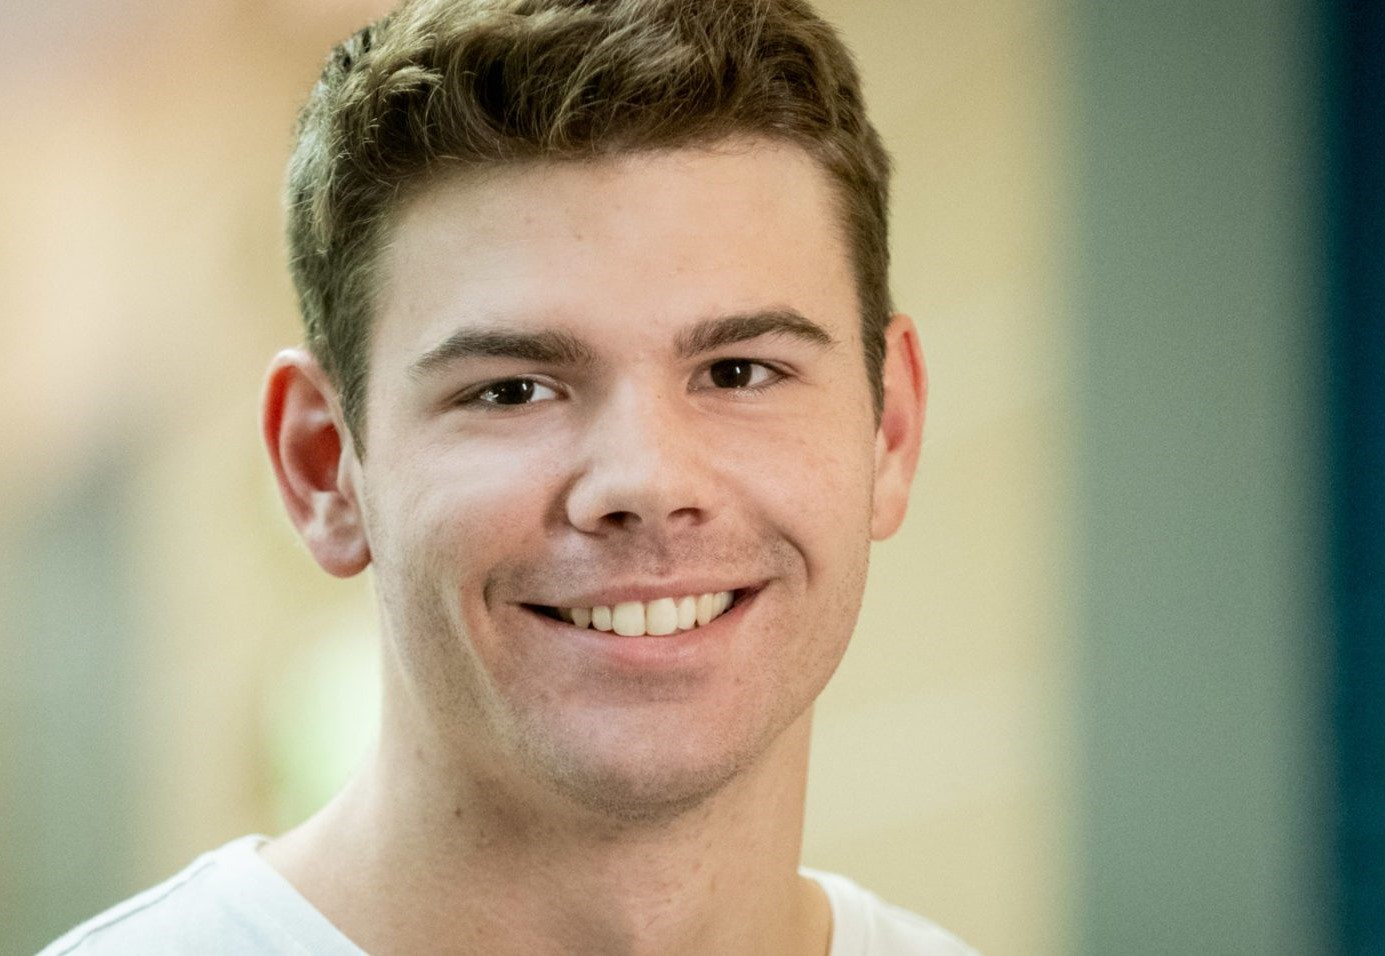
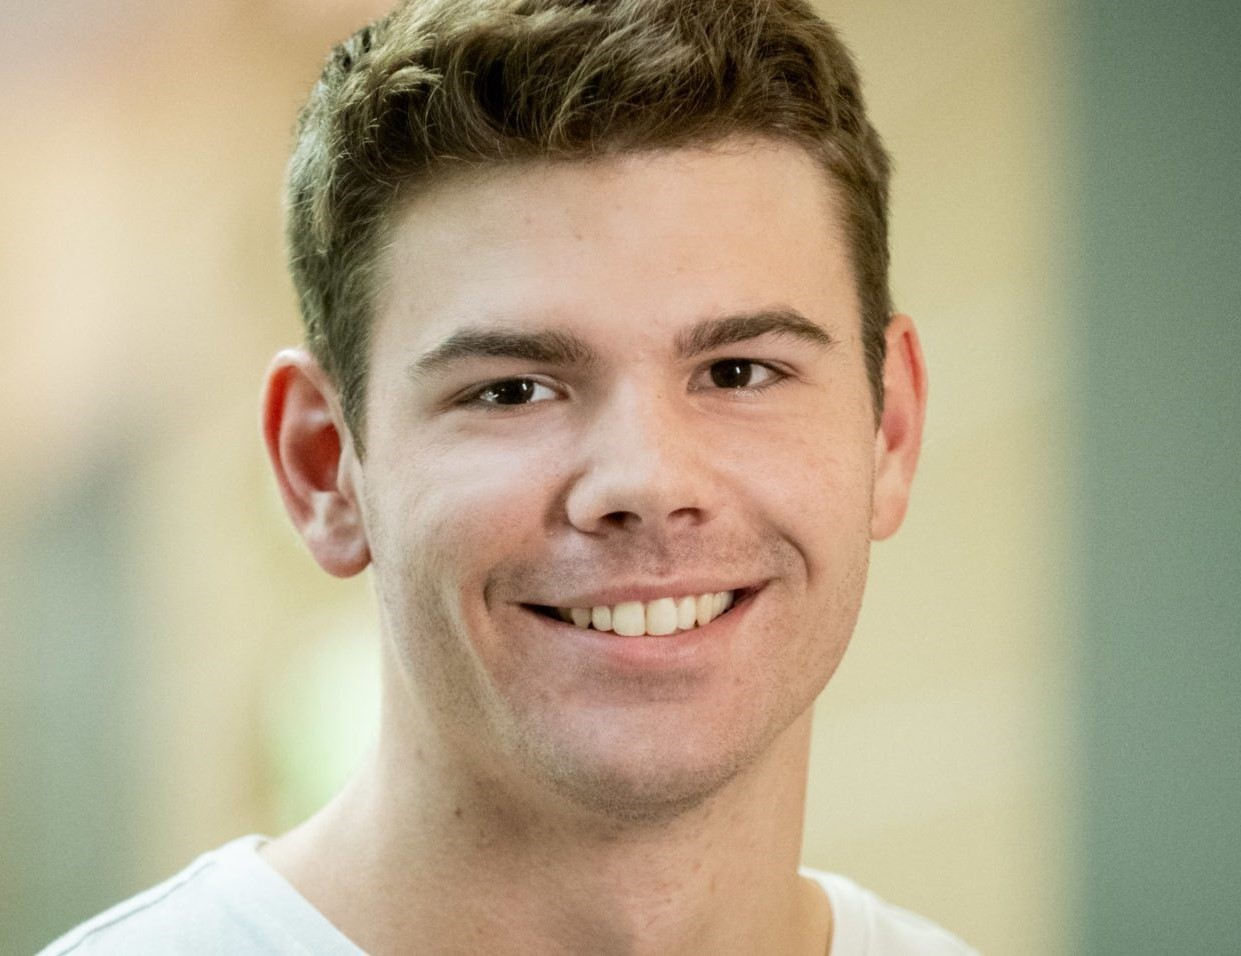
- add niklas to lab members - add "combination homomorphic EMG encoder" paper
- fix aspect ratio on people images (crop david's image)
- fix aspect ratio on project images
- in "people" list - make undergrad students appear on same row as grad students

diff --git a/pages/research.html b/pages/research.html
@@ -145,7 +145,7 @@
                                     <abbr class="badge">Under Review</abbr>
                                     <!-- <abbr class="badge">ICLR</abbr> -->
                                     <!-- <abbr class="badge">NeurIPS</abbr> <br/><br/> -->
-                                    <img src="../publications/images/surprising-effectiveness.gif" alt="Project Image">
+                                    <img src="../publications/images/surprising-effectiveness.gif" alt="Project Image" style="object-fit: contain;">
                                 </div>
 
                                 <div id="iClarify" class="col-sm-8">
@@ -196,7 +196,7 @@
                                     <abbr class="badge">Under Review</abbr>
                                     <!-- <abbr class="badge">ICLR</abbr> -->
                                     <!-- <abbr class="badge">NeurIPS</abbr> <br/><br/> -->
-                                    <img src="../publications/images/seil.png" alt="Project Image">
+                                    <img src="../publications/images/seil.png" alt="Project Image" style="object-fit: contain;">
                                 </div>
 
                                 <div id="iClarify" class="col-sm-8">
@@ -247,7 +247,7 @@
                                     <abbr class="badge">Under Review</abbr>
                                     <!-- <abbr class="badge">ICLR</abbr> -->
                                     <!-- <abbr class="badge">NeurIPS</abbr> <br/><br/> -->
-                                    <img src="../publications/images/Edge-grasp-networks.png" alt="Project Image">
+                                    <img src="../publications/images/Edge-grasp-networks.png" alt="Project Image" style="object-fit: contain;">
                                 </div>
 
                                 <div id="iClarify" class="col-sm-8">
@@ -286,6 +286,69 @@
                         </li>
                     </ol>
 
+                    <h2 class="year">2023</h2>
+                    <ol class="bibliography">
+                        <li>
+                            <div class="row">
+                                <div class="col-sm-3 abbr">
+                                    <abbr class="badge">Under Review</abbr>
+                                    <img src="../publications/images/combination-homomorphic-emg.png" alt="Project Image" style="object-fit: contain;">
+                                </div>
+
+                                <div id="iClarify" class="col-sm-8">
+                                    <div class="title">Fast and Expressive Gesture Recognition using a Combination-Homomorphic Electromyogram Encoder</div>
+                                    <div class="author">
+                                        <a href="https://nik-sm.github.io/" target="_blank" rel="noopener noreferrer">Niklas Smedemark-Margulies*</a>,
+                                        <a href="https://www.linkedin.com/in/yunusbicer/" target="_blank" rel="noopener noreferrer">Yunus Bicer*</a>,
+                                        <a href="https://www.linkedin.com/in/elifnursunger/" target="_blank" rel="noopener noreferrer">Elifnur Sunger</a>,
+                                        <a href="https://coe.northeastern.edu/people/imbiriba-tales/" target="_blank" rel="noopener noreferrer">Tales Imbiriba</a>,
+                                        <a href="https://bouve.northeastern.edu/directory/eugene-tunik/" target="_blank" rel="noopener noreferrer">Eugene Tunik</a>,
+                                        <a href="https://web.northeastern.edu/deniz/" target="_blank" rel="noopener noreferrer">Deniz Erdogmus</a>,
+                                        <a href="https://coe.northeastern.edu/people/yarossi-mathew/" target="_blank" rel="noopener noreferrer">Mathew Yarossi</a>,
+                                        <a href="../index.html" target="_blank" rel="noopener noreferrer">Robin Walters</a>
+                                    </div>
+
+                                    <div class="periodical">
+                                        <em>Under Review</em>
+                                    </div>
+
+
+                                    <div class="links">
+                                        <a class="abstract btn btn-sm z-depth-0" role="button">Abstract</a>
+                                        <a href="https://arxiv.org/pdf/2311.14675.pdf" class="btn btn-sm z-depth-0" role="button">PDF</a>
+                                        <a href="https://github.com/nik-sm/com-hom-emg" class="btn btn-sm z-depth-0" role="button">Code</a>
+                                        <a href="https://zenodo.org/records/10359729" class="btn btn-sm z-depth-0" role="button">Dataset</a>
+                                    </div>
+
+                                    <!-- Hidden abstract block -->
+                                    <div class="abstract hidden">
+                                        <p>
+                                            We study the task of gesture recognition from electromyography (EMG), with the goal of
+                                            enabling expressive human-computer interaction at high accuracy, while minimizing the
+                                            time required for new subjects to provide calibration data. To fulfill these goals, we define
+                                            combination gestures consisting of a direction component and a modifier component. New
+                                            subjects only demonstrate the single component gestures and we seek to extrapolate from
+                                            these to all possible single or combination gestures. We extrapolate to unseen combination
+                                            gestures by combining the feature vectors of real single gestures to produce synthetic training
+                                            data. This strategy allows us to provide a large and flexible gesture vocabulary, while not
+                                            requiring new subjects to demonstrate combinatorially many example gestures. We pre-train
+                                            an encoder and a combination operator using self-supervision, so that we can produce useful
+                                            synthetic training data for unseen test subjects. To evaluate the proposed method, we
+                                            collect a real-world EMG dataset, and measure the effect of augmented supervision against
+                                            two baselines: a partially-supervised model trained with only single gesture data from the
+                                            unseen subject, and a fully-supervised model trained with real single and real combination
+                                            gesture data from the unseen subject. We find that the proposed method provides a dramatic
+                                            improvement over the partially-supervised model, and achieves a useful classification accuracy
+                                            that in some cases approaches the performance of the fully-supervised model.
+                                        </p>
+                                    </div>
+                                    <!-- Hidden bibtex block -->
+
+                                </div>
+                            </div>
+                        </li>
+                    </ol>
+
                     <h2 class="year">2022</h2>
                     <ol class="bibliography">
                         <li>
@@ -294,7 +357,7 @@
                                     <abbr class="badge">ICML 2022</abbr>
                                     <!-- <abbr class="badge">ICLR</abbr> -->
                                     <!-- <abbr class="badge">NeurIPS</abbr> <br/><br/> -->
-                                    <img src="../publications/images/sen.png" alt="Project Image">
+                                    <img src="../publications/images/sen.png" alt="Project Image" style="object-fit: contain;">
                                 </div>
 
                                 <div id="iClarify" class="col-sm-8">
@@ -343,7 +406,7 @@
                                     <abbr class="badge">PMLR Vol. 197</abbr>
                                     <!-- <abbr class="badge">ICLR</abbr>
                                     <abbr class="badge">NeurIPS</abbr> <br/><br/> -->
-                                    <img src="../publications/images/image-to-icosahedral.png" alt="Project Image">
+                                    <img src="../publications/images/image-to-icosahedral.png" alt="Project Image" style="object-fit: contain;">
                                 </div>
 
                                 <div id="iClarify" class="col-sm-8">
@@ -391,7 +454,7 @@
                                     <abbr class="badge">RLDM 2022</abbr>
                                     <!-- <abbr class="badge">ICLR</abbr>
                                     <abbr class="badge">NeurIPS</abbr> <br/><br/> -->
-                                    <img src="../publications/images/understanding-the-mechanisms.png" alt="Project Image">
+                                    <img src="../publications/images/understanding-the-mechanisms.png" alt="Project Image" style="object-fit: contain;">
                                 </div>
 
                                 <div id="iClarify" class="col-sm-8">
@@ -439,7 +502,7 @@
                                     <!-- <abbr class="badge">ICML</abbr> -->
                                     <abbr class="badge">ICLR 2022</abbr>
                                     <!-- <abbr class="badge">NeurIPS</abbr> <br/><br/> -->
-                                    <img src="../publications/images/SO(2)-Equivariant-Reinforcement-Learning.png" alt="Project Image">
+                                    <img src="../publications/images/SO(2)-Equivariant-Reinforcement-Learning.png" alt="Project Image" style="object-fit: contain;">
                                 </div>
 
                                 <div id="iClarify" class="col-sm-8">
@@ -486,7 +549,7 @@
                                     <abbr class="badge">RSS 2022</abbr>
                                     <!-- <abbr class="badge">ICLR</abbr> -->
                                     <!-- <abbr class="badge">NeurIPS</abbr> <br/><br/> -->
-                                    <img src="../publications/images/equi_transporter.png" alt="Project Image">
+                                    <img src="../publications/images/equi_transporter.png" alt="Project Image" style="object-fit: contain;">
                                 </div>
 
                                 <div id="iClarify" class="col-sm-8">
@@ -534,7 +597,7 @@
                                     <abbr class="badge">CoRL 2022</abbr>
                                     <!-- <abbr class="badge">ICLR</abbr> -->
                                     <!-- <abbr class="badge">NeurIPS</abbr> <br/><br/> -->
-                                    <img src="../publications/images/On-Robot-Learning-With-Equivariant-Models.png" alt="Project Image">
+                                    <img src="../publications/images/On-Robot-Learning-With-Equivariant-Models.png" alt="Project Image" style="object-fit: contain;">
                                 </div>
 
                                 <div id="iClarify" class="col-sm-8">
@@ -582,7 +645,7 @@
                                     <abbr class="badge">CoRL 2021</abbr>
                                     <!-- <abbr class="badge">ICLR</abbr> -->
                                     <!-- <abbr class="badge">NeurIPS</abbr> <br/><br/> -->
-                                    <img src="../publications/images/Equivariant-Q-Learning-in-Spatial-Action-Spaces.png" alt="Project Image">
+                                    <img src="../publications/images/Equivariant-Q-Learning-in-Spatial-Action-Spaces.png" alt="Project Image" style="object-fit: contain;">
                                 </div>
 
                                 <div id="iClarify" class="col-sm-8">

diff --git a/pages/geometric-learning-lab.html b/pages/geometric-learning-lab.html
@@ -120,25 +120,27 @@
                     <p class="desc"></p>
                 </header>
 
+                <!-- style="object-fit: contain; -->
                 <div class="row1" style="margin-bottom: 2%;">
-                    <div class="column1" style="border: 0px solid black;">
-                        <div class="card" style="margin-top: 4%; margin-bottom: 2%;">
+                    <div class="column1" style="margin-top: 4%; margin-bottom: 2%;">
+                        <div class="card" style="height: 300px; overflow: hidden;">
                             <h4 style="align-self: center; margin-top: 2%; margin-bottom: 2%;">Principal Investigator</h4>
-                            <img src="../images/rw-1.jpg" alt="Robin Walters" style="width:100%" width="300" height="200">
+                            <img src="../images/rw-1.jpg" alt="Robin Walters" style="object-fit: cover; position: center center; width: 100%; height: 100%;"> 
                             <div class="container">
                                 <figcaption class="figcaption"><a href="../index.html" target="_blank">Robin Walters</a></figcaption>
                                 <figcaption class="figcaption">Assistant Professor</figcaption>
                             </div>
                         </div>
                     </div>
+
                 </div>
 
                 <h4 style="align-self: center;">Students</h4>
                 <div class="row" style="border-top: 0px solid black; border-left: 0px solid black; border-right: 0px solid black;">
 
                     <div class="column" style="margin-top: 4%; margin-bottom: 2%;">
-                        <div class="card">
-                            <img src="../images/david-klee.jpg" alt="David Klee" style="width:100%" width="300" height="200">
+                        <div class="card" style="height: 250px; overflow: hidden;">
+                            <img src="../images/david-klee.jpg" alt="David Klee" style="object-fit: cover; position: center center; width: 100%; height: 100%;"> 
                             <div class="container">
                                 <figcaption class="figcaption"><a href="https://dmklee.github.io/" target="_blank">David Klee</a></figcaption>
                                 <figcaption class="figcaption">PhD Candidate</figcaption>
@@ -147,8 +149,8 @@
                     </div>
 
                     <div class="column" style="margin-top: 4%; margin-bottom: 2%;">
-                        <div class="card">
-                            <img src="../images/dian.jpg" alt="Dian Wang" style="width:100%" width="300" height="200">
+                        <div class="card" style="height: 250px; overflow: hidden;">
+                            <img src="../images/dian.jpg" alt="Dian Wang" style="object-fit: cover; position: center center; width: 100%; height: 100%;"> 
                             <div class="container">
                                 <figcaption class="figcaption"><a href="https://pointw.github.io" target="_blank">Dian Wang</a></figcaption>
                                 <figcaption class="figcaption">PhD Candidate</figcaption>
@@ -157,8 +159,8 @@
                     </div>
 
                     <div class="column" style="margin-top: 4%; margin-bottom: 2%;">
-                        <div class="card">
-                            <img src="../images/john.png" alt="John Park" style="width:100%" width="300" height="200">
+                        <div class="card" style="height: 250px; overflow: hidden;">
+                            <img src="../images/john.png" alt="John Park" style="object-fit: cover; position: center center; width: 100%; height: 100%;"> 
                             <div class="container">
                                 <figcaption class="figcaption"><a href="https://jypark0.github.io/" target="_blank">John Park</a></figcaption>
                                 <figcaption class="figcaption">PhD Candidate</figcaption>
@@ -166,9 +168,10 @@
                         </div>
                     </div>
 
+
                     <div class="column" style="margin-top: 4%; margin-bottom: 2%;">
-                        <div class="card">
-                            <img src="../images/lucas.jfif" alt="Lucas Laird" style="width:100%" width="300" height="200">
+                        <div class="card" style="height: 250px; overflow: hidden;">
+                            <img src="../images/lucas.jfif" alt="Lucas Laird" style="object-fit: cover; position: center center; width: 100%; height: 100%;"> 
                             <div class="container">
                                 <figcaption class="figcaption"><a href="https://www.khoury.northeastern.edu/people/lucas-laird/" target="_blank">Lucas Laird</a></figcaption>
                                 <figcaption class="figcaption">PhD Student</figcaption>
@@ -176,13 +179,22 @@
                         </div>
                     </div>
 
-                </div>
+                    <div class="column" style="margin-top: 4%; margin-bottom: 2%;">
+                        <div class="card" style="height: 250px; overflow: hidden;">
+                            <img src="../images/niklas.jpg" alt="Niklas Smedemark-Margulies" style="object-fit: cover; position: center center; width: 100%; height: 100%;"> 
+                            <div class="container">
+                                <figcaption class="figcaption"><a href="https://nik-sm.github.io/" target="_blank">Niklas Smedemark-Margulies</a></figcaption>
+                                <figcaption class="figcaption">PhD Candidate</figcaption>
+                            </div>
+                        </div>
+                    </div>
 
-                <div class="row" style="border-bottom: 0px solid black; border-left: 0px solid black; border-right: 0px solid black;">
+                <!-- </div> -->
+                <!-- <div class="row" style="border-bottom: 0px solid black; border-left: 0px solid black; border-right: 0px solid black;"> -->
 
                     <div class="column" style="margin-top: 4%; margin-bottom: 2%;">
-                        <div class="card">
-                            <img src="../images/neel-sortur.jfif" alt="Neel Sorture" style="width:100%" width="300" height="200">
+                        <div class="card" style="height: 250px; overflow: hidden;">
+                            <img src="../images/neel-sortur.jfif" alt="Neel Sortur" style="object-fit: cover; position: center center; width: 100%; height: 100%;"> 
                             <div class="container">
                                 <figcaption class="figcaption"><a href="https://nsortur.github.io/" target="_blank">Neel Sortur</a></figcaption>
                                 <figcaption class="figcaption">Undergrad Student</figcaption>
@@ -190,14 +202,15 @@
                         </div>
                     </div>
 
+
                 </div>
 
                 <h4 style="align-self: center; margin-top: 2%;">Alumni</h4>
                 <div class="row" style="border: 2px solid black; margin-top: 2%;">
 
                     <div class="column" style="margin-top: 4%; margin-bottom: 2%;">
-                        <div class="card">
-                            <img src="../images/sumukh.jpg" alt="Sumukh Vasisht Shankar" style="width:100%" width="300" height="200">
+                        <div class="card" style="height: 250px; overflow: hidden;">
+                            <img src="../images/sumukh.jpg" alt="Sumukh Vasisht Shankar" style="object-fit: cover; position: center center; width: 100%; height: 100%;"> 
                             <div class="container">
                                 <figcaption class="figcaption"><a href="https://www.svs.codes/" target="_blank">Sumukh Vasisht Shankar</a></figcaption>
                                 <figcaption class="figcaption">Yale University</figcaption>
@@ -206,8 +219,8 @@
                     </div>
 
                     <div class="column" style="margin-top: 4%; margin-bottom: 2%;">
-                        <div class="card">
-                            <img src="../images/vedanshi-shah.jpg" alt="Vedanshi Shah" style="width:100%" width="300" height="200">
+                        <div class="card" style="height: 250px; overflow: hidden;">
+                            <img src="../images/vedanshi-shah.jpg" alt="Vedanshi Shah" style="object-fit: cover; position: center center; width: 100%; height: 100%;"> 
                             <div class="container">
                                 <figcaption class="figcaption"><a href="https://shahve.wixsite.com/vedanshi" target="_blank">Vedanshi Shah</a></figcaption>
                                 <figcaption class="figcaption">Undergrad Student</figcaption>

diff --git a/css/main.css b/css/main.css
@@ -539,6 +539,11 @@ footer.sticky-bottom {
     width: 100%;
     height: 400%;
     padding-bottom: 5%;
+    /* move img up slightly */
+    transform: translate(0%, -5%);
+    /* Moves img to back layer (behind journal banner) */
+    z-index:-1;  
+    position:relative;
 }
 
 @media (max-width: 576px) {
